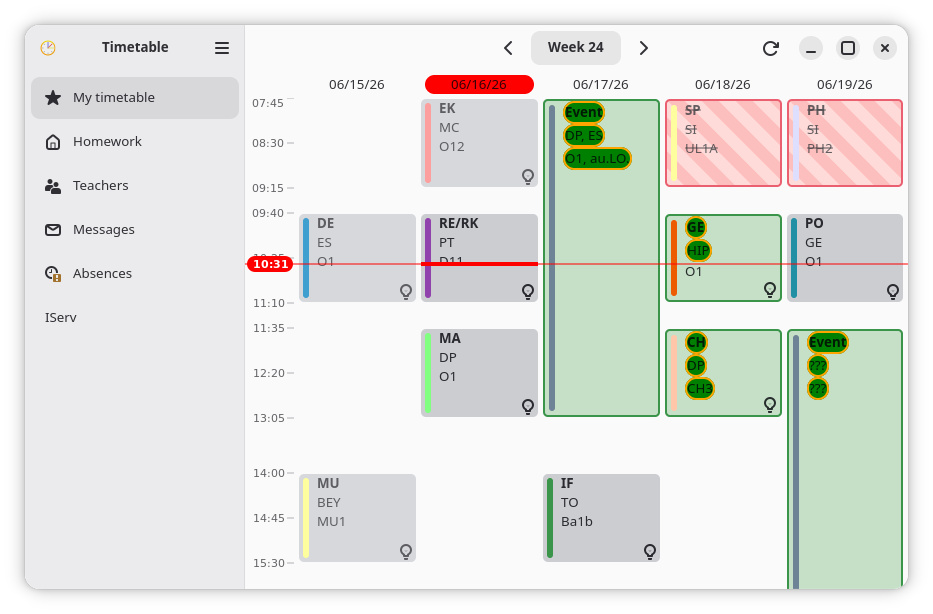
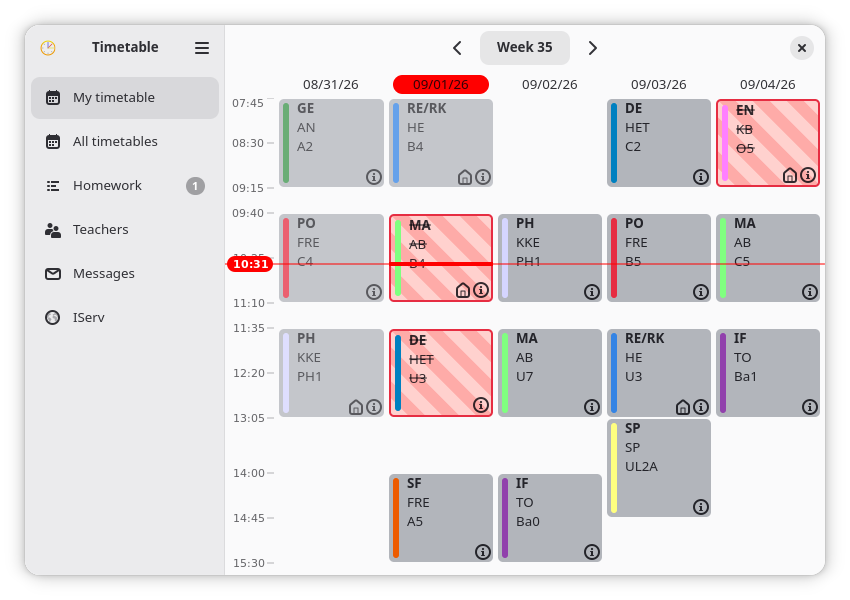
updated screenshots and fakeTime

diff --git a/src/api.py b/src/api.py
@@ -19,7 +19,7 @@ headers = {"User-Agent": useragent, "Accept": "application/json"}
 offline = False
 lastOnline = None
 
-fakeTime = datetime.datetime.strptime("26.06.16 10:31:03", "%y.%m.%d %H:%M:%S")
+fakeTime = datetime.datetime.strptime("26.09.01 10:31:03", "%y.%m.%d %H:%M:%S")
 
 def getDateTime():
     #return fakeTime
